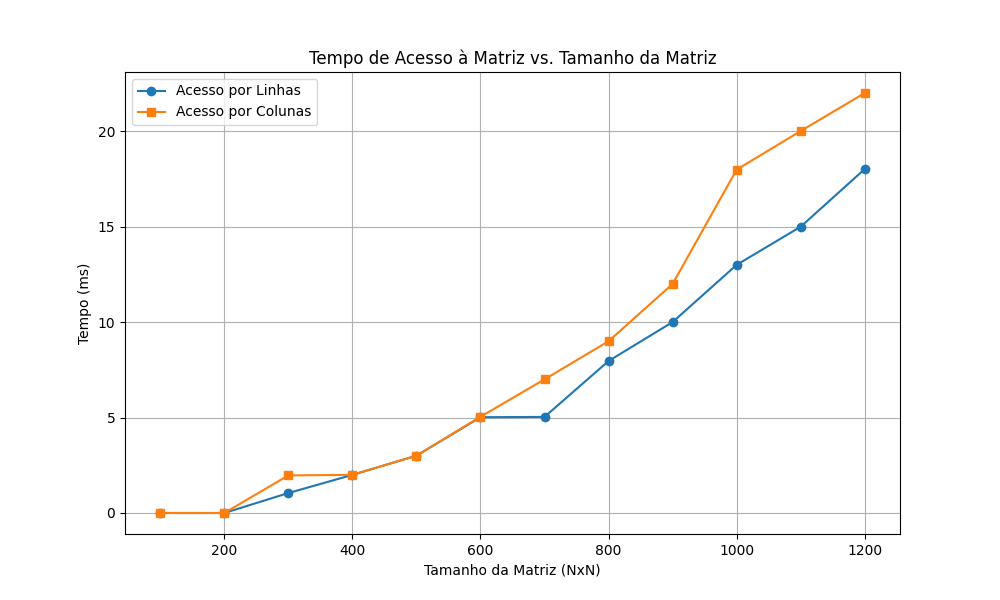
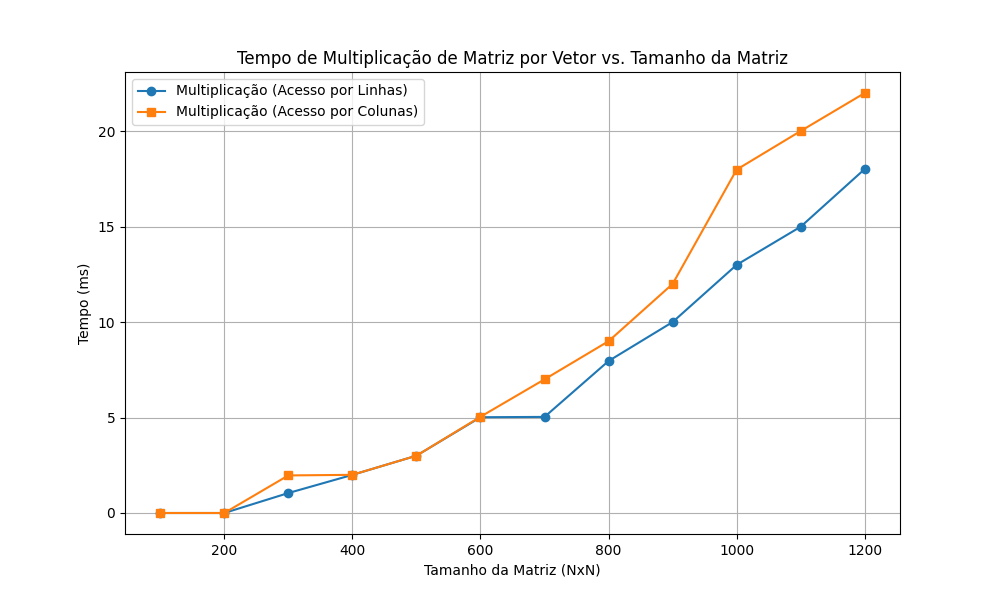
prepartion task two

Changed region(s): [[0.155, 0.09, 0.806, 0.21]]

diff --git a/25-03/task2.cpp b/25-03/task2.cpp
@@ -2,43 +2,51 @@
 #include <vector>
 #include <chrono>
 
-#define N 123450000 // TAMANHO DO VETOR
-
 using namespace std;
 using namespace chrono;
 
 int main() {
-    vector<int> vec(N);
+    vector<int> testes = {1000, 10000, 100000, 1000000, 10000000, 1000000000, 200000000, 30000000, 400000000};
+
+    for (int N : testes) {
+        vector<int> vec(N);
     
-    // INICIALIZAÇÃO COM CÁLCULO SIMPLES
-    auto start = high_resolution_clock::now();
-    for (int i = 0; i < N; ++i) {
-        vec[i] = i * 3 + 7;
-    }
-    auto end = high_resolution_clock::now();
-    cout << "INICIALIZACAO: " << duration_cast<milliseconds>(end - start).count() << " ms\n";
+        // INICIALIZAÇÃO COM CÁLCULO SIMPLES
+        auto start = high_resolution_clock::now();
+        for (int i = 0; i < N; ++i) {
+            vec[i] = i * 3 + 7;
+        }
+        auto end = high_resolution_clock::now();
+        cout << "INICIALIZACAO: " << duration_cast<milliseconds>(end - start).count() << " ms\n";
 
-    // SOMA ACUMULATIVA COM DEPENDÊNCIA 
-    start = high_resolution_clock::now();
-    long long sum = 0;
-    for (int i = 0; i < N; ++i) {
-        sum += vec[i];
-    }
-    end = high_resolution_clock::now();
-    cout << "COM DEPEDENCIA -> " << "RESULTADO: " << sum << " / "<< "TEMPO: " << duration_cast<milliseconds>(end - start).count() << " ms\n";
+        // SOMA ACUMULATIVA COM DEPENDÊNCIA 
+        start = high_resolution_clock::now();
+        long long sum = 0;
+        for (int i = 0; i < N; ++i) {
+            sum += vec[i];
+        }
+        end = high_resolution_clock::now();
+        cout << "COM DEPENDENCIA -> " << "RESULTADO: " << sum << " / "<< "TEMPO: " << duration_cast<milliseconds>(end - start).count() << " ms\n";
 
-    // SOMA COM MÚLTIPLAS VARIÁVEIS PARA QUEBRAR DEPENDÊNCIAS
-    start = high_resolution_clock::now();
-    long long sum1 = 0, sum2 = 0, sum3 = 0, sum4 = 0;
-    for (int i = 0; i < N; i += 4) {
-        sum1 += vec[i];
-        sum2 += vec[i + 1];
-        sum3 += vec[i + 2];
-        sum4 += vec[i + 3];
+        // SOMA COM MÚLTIPLAS VARIÁVEIS PARA QUEBRAR DEPENDÊNCIAS
+        start = high_resolution_clock::now();
+        long long sum1 = 0, sum2 = 0, sum3 = 0, sum4 = 0;
+        for (int i = 0; i + 3 < N; i += 4) {
+            sum1 += vec[i];
+            sum2 += vec[i + 1];
+            sum3 += vec[i + 2];
+            sum4 += vec[i + 3];
+        }
+
+        // Adiciona elementos restantes se N não for múltiplo de 4
+        long long totalSum = sum1 + sum2 + sum3 + sum4;
+        for (int i = (N / 4) * 4; i < N; ++i) {
+            totalSum += vec[i];
+        }
+
+        end = high_resolution_clock::now();
+        cout << "SEM DEPENDENCIA -> "<< "RESULTADO: " << totalSum << " / " << "TEMPO: " << duration_cast<milliseconds>(end - start).count() << " ms\n";
     }
-    long long totalSum = sum1 + sum2 + sum3 + sum4;
-    end = high_resolution_clock::now();
-    cout << "SEM DEPEDENCIA -> "<< "RESULTADO: " << sum << " / " << "TEMPO: " << duration_cast<milliseconds>(end - start).count() << " ms\n";
 
     return 0;
 }

diff --git a/27-03/task3.0.c b/27-03/task3.0.c
@@ -1,19 +1,18 @@
-#include <iostream>
-#include <vector>
-#include <cmath>
+#include <stdio.h>
+#include <stdlib.h>
+#include <math.h>
 #include <omp.h>
 
 #define N 100000000  // Tamanho do vetor (memory-bound)
 #define ITER 10000000 // Iterações para cálculo de PI (compute-bound)
 
-using namespace std;
-
 // Função memory-bound: Soma de vetores
 void memory_bound(int num_threads) {
-    vector<double> A(N), B(N), C(N);
+    double *A = (double *)malloc(N * sizeof(double));
+    double *B = (double *)malloc(N * sizeof(double));
+    double *C = (double *)malloc(N * sizeof(double));
     
     // Inicializa os vetores
-    #pragma omp parallel for num_threads(num_threads)
     for (int i = 0; i < N; i++) {
         A[i] = i * 1.0;
         B[i] = (N - i) * 1.0;
@@ -27,7 +26,9 @@ void memory_bound(int num_threads) {
     }
     
     double end = omp_get_wtime();
-    cout << "Memory-bound (" << num_threads << " threads): " << (end - start) << " seconds\n";
+    printf("Memory-bound (%d threads): %.6f seconds\n", num_threads, end - start);
+    
+    free(A); free(B); free(C);
 }
 
 // Função compute-bound: Aproximação de Pi com a série de Leibniz
@@ -43,19 +44,20 @@ double compute_bound(int num_threads) {
     }
     
     double end = omp_get_wtime();
-    cout << "Compute-bound (" << num_threads << " threads): " << (end - start) << " seconds\n";
+    printf("Compute-bound (%d threads): %.6f seconds\n", num_threads, end - start);
     
     return pi * 4;
 }
 
 int main() {
-    vector<int> thread_counts = {1, 2, 4, 8, 16}; // Testando diferentes números de threads
+    int thread_counts[] = {1, 2, 4, 8, 16}; // Testando diferentes números de threads
     
-    for (int threads : thread_counts) {
+    for (int i = 0; i < 5; i++) {
+        int threads = thread_counts[i];
         memory_bound(threads);
         double pi_aprox = compute_bound(threads);
-        cout << "Pi aproximado (" << threads << " threads): " << pi_aprox << endl;
-        cout << "-----------------------------------" << endl;
+        printf("Pi aproximado (%d threads): %.15f\n", threads, pi_aprox);
+        printf("-----------------------------------\n");
     }
     
     return 0;

diff --git a/25-03/graph.py b/25-03/graph.py
@@ -1,0 +1,51 @@
+import matplotlib.pyplot as plt
+import numpy as np
+
+# Dados sem os dois primeiros elementos
+tamanhos = [10**6, 10**7, 10**8, 2*10**8, 3*10**8, 4*10**8]
+
+tempos_O0 = {
+    "Inicializacao": [9, 62, 581, 656, 984, 1357],
+    "Com Dependencia": [10, 63, 639, 731, 1101, 1523],
+    "Sem Dependencia": [11, 57, 560, 653, 972, 1296]
+}
+
+tempos_O2 = {
+    "Inicializacao": [2, 15, 66, 117, 119, 160],
+    "Com Dependencia": [2, 20, 98, 192, 172, 228],
+    "Sem Dependencia": [4, 21, 164, 317, 294, 384]
+}
+
+tempos_O3 = {
+    "Inicializacao": [1, 17, 66, 121, 119, 159],
+    "Com Dependencia": [2, 26, 98, 193, 174, 229],
+    "Sem Dependencia": [3, 44, 162, 312, 288, 395]
+}
+
+def format_label(value):
+    base = value // (10 ** int(np.log10(value)))
+    exp = int(np.log10(value))
+    return f'${base} \tx 10^{{{exp}}}$'
+
+def plot_bar_chart(tamanhos, tempos, title):
+    x = np.arange(len(tamanhos))
+    width = 0.2  # Reduzindo a largura das barras
+    
+    fig, ax = plt.subplots(figsize=(7, 4.5))  # Reduzindo o tamanho do gráfico
+    ax.bar(x - width, tempos["Inicializacao"], width, label="Inicializacao", color='#E6A117')  # Amarelo queimado vivo
+    ax.bar(x, tempos["Com Dependencia"], width, label="Com Dependencia", color='#FF6700')  # Laranja queimado vivo
+    ax.bar(x + width, tempos["Sem Dependencia"], width, label="Sem Dependencia", color='#D40000')  # Vermelho vivo
+    
+    ax.set_xlabel("Tamanho do Vetor")
+    ax.set_ylabel("Tempo (ms)")
+    ax.set_title(title)
+    ax.set_xticks(x)
+    ax.set_xticklabels([format_label(t) for t in tamanhos])
+    ax.legend()
+    ax.grid(axis='y', linestyle='--', alpha=0.7)
+    
+    plt.show()
+
+plot_bar_chart(tamanhos, tempos_O0, "Desempenho com Otimizacao O0")
+plot_bar_chart(tamanhos, tempos_O2, "Desempenho com Otimizacao O2")
+plot_bar_chart(tamanhos, tempos_O3, "Desempenho com Otimizacao O3")

diff --git a/20-03/graph.py b/20-03/graph.py
@@ -11,13 +11,13 @@ tempos_colunas_ms = [t / 1e6 for t in tempos_colunas_ns]
 
 # Criando o gráfico
 plt.figure(figsize=(10, 6))
-plt.plot(tamanhos, tempos_linhas_ms, marker='o', linestyle='-', label='Acesso por Linhas')
-plt.plot(tamanhos, tempos_colunas_ms, marker='s', linestyle='-', label='Acesso por Colunas')
+plt.plot(tamanhos, tempos_linhas_ms, marker='o', linestyle='-', label='Multiplicação (Acesso por Linhas)')
+plt.plot(tamanhos, tempos_colunas_ms, marker='s', linestyle='-', label='Multiplicação (Acesso por Colunas)')
 
 # Personalizando o gráfico
 plt.xlabel("Tamanho da Matriz (NxN)")
 plt.ylabel("Tempo (ms)")
-plt.title("Tempo de Acesso à Matriz vs. Tamanho da Matriz")
+plt.title("Tempo de Multiplicação de Matriz por Vetor vs. Tamanho da Matriz")
 plt.legend()
 plt.grid(True)
 
